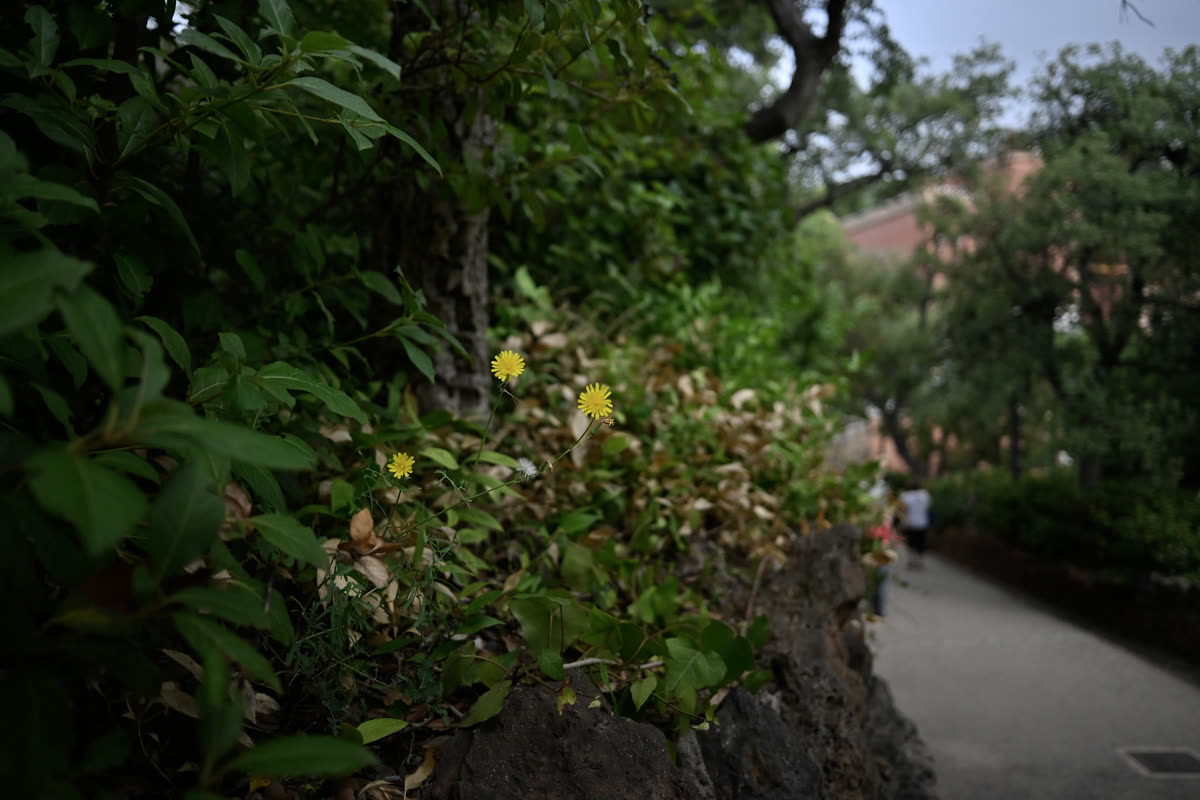
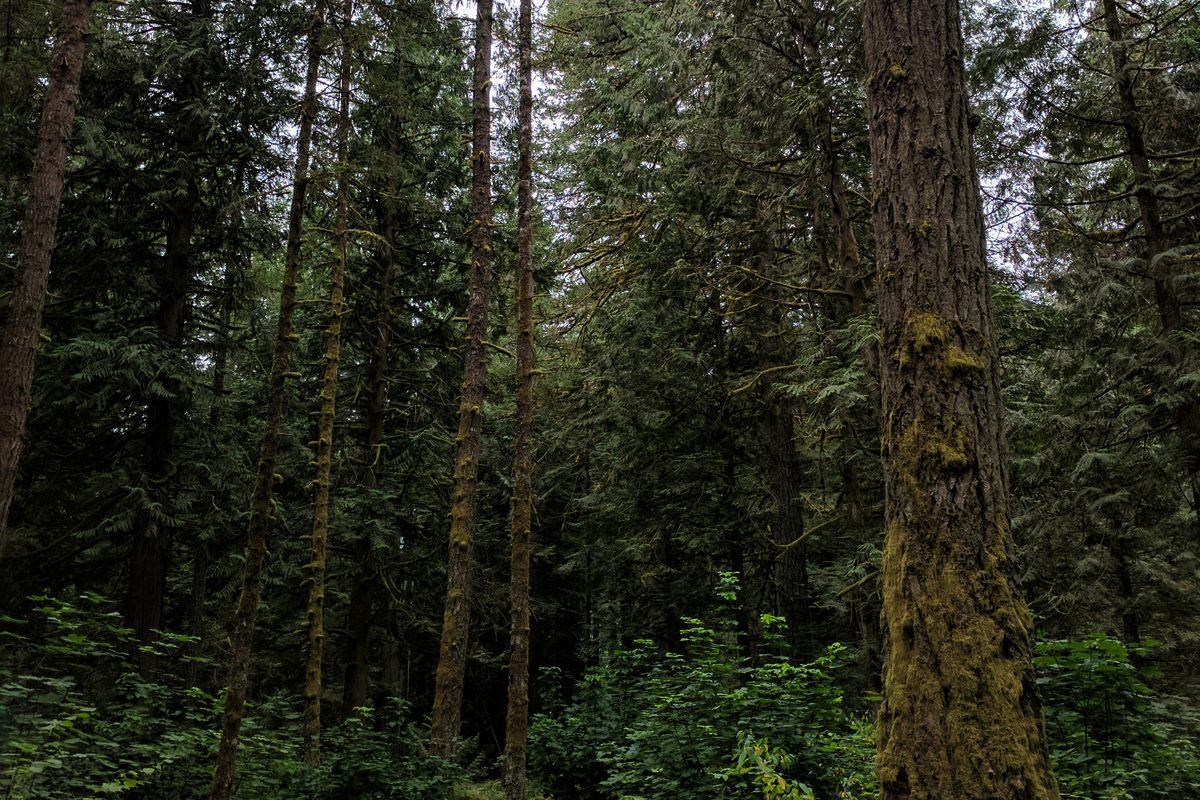
Meditation beds, Andrew's photos, and four decisions closed
- Every meditation now has a bed (sceneId in meditations/index.json, no
  re-render): warm-room/fireplace, forest-01/forest-evening,
  lake-at-dusk/waterfall-valley, under-a-slow-sky/forest-night, the other
  six over rain-on-window.
- Photos from Andrew's own set: night-train gets its first (his
  AI-generated lounge car, rainy window), and monsoon (nearly white) and
  forest-day (too daylight) are replaced with his photographs. All are
  cropped 3:2, graded to the catalogue's night luminance, and credited in
  NOTICES.md. monsoon's top-right is darkened so the card's arrow reads.
- Closed: singing bowls ditched (0G), no local voice (0E), photos (0F),
  meditation beds (1). iOS Safari is dropped from the v1.0 device pass.

Scene photos are stale-while-revalidate, so no CACHE_VERSION bump.

Validated: a phone-width headless screenshot of Tonight shows every card
on a photo with its title, copy and arrow legible. tsc/eslint clean,
vitest 294/294, build clean.

diff --git a/src/lib/sceneBackground.ts b/src/lib/sceneBackground.ts
@@ -16,8 +16,8 @@ const SCENE_PHOTOS: Record<string, string> = {
   'monsoon':        resolvePublicUrl('/scenes/photos/monsoon.jpg'),
   'ocean-night':    resolvePublicUrl('/scenes/photos/ocean-night.jpg'),
   'fireplace':      resolvePublicUrl('/scenes/photos/fireplace.jpg'),
+  'night-train':    resolvePublicUrl('/scenes/photos/night-train.jpg'),
   'singing-bowl':   resolvePublicUrl('/scenes/photos/singing-bowl.jpg'),
-  // night-train has no photo yet — see SCENE_GRADIENTS below.
 };
 
 const SCENE_GRADIENTS: Record<string, [string, string]> = {
@@ -29,10 +29,6 @@ const SCENE_GRADIENTS: Record<string, [string, string]> = {
   'monsoon':        ['#1A2228', '#0B0D10'],
   'ocean-night':    ['#10202A', '#0B0D10'],
   'fireplace':      ['#2A1810', '#0B0D10'],
-  // night-train is the one scene running on its gradient rather than a
-  // photo: choosing the photograph is Andrew's call, and the roadmap already
-  // has an open item about off-brief imagery. A warm interior over a cold
-  // window is the look to match when one is picked.
   'night-train':    ['#231C22', '#0B0D10'],
   'singing-bowl':   ['#1E1A10', '#0B0D10'],
 };

diff --git a/.handoff/PENDING-DECISIONS.md b/.handoff/PENDING-DECISIONS.md
@@ -11,12 +11,9 @@ so this file is only live items.
 ## At a glance
 
 **Blocked on Andrew**
-- **1** — every meditation plays with no bed. Pick pairings, or wait for 0G.
-- **0G** — a source for the singing-bowl replacement bed. Pick a route.
-- **0E** — the narration voice. 31 audition files are on your phone. This one
-  gates the most: 7 written meditations cannot be rendered until it is picked.
-- **0F** — a photograph for `night-train`, plus the two still-off-brief ones.
-- **2** — the device pass, which is the gate on tagging v1.0.
+- **2** — the device pass, which is the gate on tagging v1.0: PWA install, an
+  overnight on v18, and the mark button on a locked phone. **iOS Safari is
+  dropped for now** (Andrew, 2026-09-30).
 
 **Buildable without you**
 - **0B** — 8 variants still step >3 dB at the wrap, the same 8 the 2026-09-02
@@ -43,7 +40,13 @@ rain-on-glass recording chosen by Andrew's ear (DECISIONS.md, "glass-1
 retired"). glass-5, the Guangzhou splatter spliced clean by ear, joined it the
 same day as an extra variant (DECISIONS.md, "glass-5").
 
-## 0G. OPEN 2026-09-16 — the bowls are OUT of the catalogue, and need sourcing
+## 0G. CLOSED 2026-09-30 — singing bowls ditched
+
+Andrew: "we ditch singing bowls." No replacement bed will be sourced. The ten
+meditations play over existing scenes (item 1). The held-back scene's files
+stay in `scenes/_held-back/` as history and can go in a cleanup.
+
+### (was: the bowls are OUT of the catalogue, and need sourcing)
 
 Andrew: "I thought we still need to resource the bowls? The old ones were
 hella disharmonious." Then: "We're replacing but need to source them. No
@@ -91,7 +94,12 @@ done well. Not reverted: the deploy had already published CACHE_VERSION v14,
 so a revert costs a second full re-download and returns nothing. The general
 finding in it is still worth having — see "Watch out for" in the hand-off.
 
-## 0E. OPEN 2026-09-14 — the audition is rendered and staged, waiting on ears
+## 0E. CLOSED 2026-09-30 — no local voice needed
+
+Andrew: "No local voice needed." The library stays on ElevenLabs `stone`.
+The audition record stays in `notes/engine-audition-2026-09-14.md`.
+
+### (was: the audition is rendered and staged, waiting on ears)
 
 **Narrowed 2026-09-19: the library no longer waits on this.** Andrew chose
 `stone` and the whole library is rendered in it (item 1). What is still open
@@ -144,7 +152,18 @@ refuting the craft sources); ceilings + a perceptual taper ship on every
 volume slider; the train scene's source is FTUS TRAINS_02's Thailand
 first-class cabin (602 s, "Railway Clicks").
 
-## 0F. OPEN 2026-09-15 — the train scene ships without a photograph
+## 0F. DONE 2026-09-30 — photos for night-train, monsoon and forest-day
+
+From Andrew's own set (Taildropped to `~/Taildrop/`; working copies in
+`~/incoming/photos-2026-09-30/`): night-train is his AI-generated lounge car
+(lamp against a rainy window); monsoon is his storm shelf over a skyline
+(window frame cropped, top-right darkened so the card's arrow reads);
+forest-day is his tall-forest path. All are graded to the catalogue's night
+luminance (YAVG ~35-42), and NOTICES.md records his rights. Unused but
+strong, kept in reserve: the dark beach with a lighthouse glint
+(IMG_1568), night leaves (L1010043), and the second AI train (corridor).
+
+### (was: the train scene ships without a photograph)
 
 `night-train` is cut, voiced, conformance-green and in the catalogue. It is
 the only scene with no photo, so it draws its gradient instead — supported,
@@ -199,7 +218,14 @@ and that file now opens with a status block saying which is which.
   `package.json` still reads `0.1.0` and there are no tags yet. **This is the
   gate on v1.0.**
 
-## 1. DONE 2026-09-19 — the library is rendered, on `stone`
+## 1. DONE 2026-09-30 — every meditation has a bed
+
+Andrew took the suggested pairings: warm-room over fireplace, forest-01 over
+forest-evening, lake-at-dusk over waterfall-valley, under-a-slow-sky over
+forest-night, the other six over rain-on-window. These are `sceneId`s in
+`public/meditations/index.json`; nothing was re-rendered.
+
+### (2026-09-19: the library is rendered, on `stone`)
 
 Andrew picked `stone` for the whole library rather than waiting for the
 engine audition to close. Ten meditations (3 re-rendered, 7 new) and all four

diff --git a/public/scenes/photos/NOTICES.md b/public/scenes/photos/NOTICES.md
@@ -7,14 +7,18 @@ license does not strictly require it.
 | Scene            | File                  | Photographer        | Source / License                          |
 |------------------|-----------------------|---------------------|-------------------------------------------|
 | forest-evening   | forest-evening.jpg    | Jonathan Klok       | Unsplash — Unsplash License (free use)    |
-| monsoon          | monsoon.jpg           | Daniel Lerman       | Unsplash — Unsplash License (free use)    |
 | ocean-night      | ocean-night.jpg       | Joakim Honkasalo    | Unsplash — Unsplash License (free use)    |
 | fireplace        | fireplace.jpg         | Elisabeth Arnold    | Unsplash — Unsplash License (free use)    |
 | singing-bowl     | singing-bowl.jpg      | Petr Sidorov        | Unsplash — Unsplash License (free use) — photo-1627764627459-ba29d6051fe0 |
 | waterfall-valley | waterfall-valley.jpg  | Andrew Rausch       | Own photograph (2026-09-02); tone-curved down to the catalogue's night luminance (YAVG ~40) |
+| forest-day       | forest-day.jpg        | Andrew Rausch       | Own photograph (IMG_20170812_085115, 2026-09-30); cropped 3:2 from portrait, tone-curved to YAVG ~42 |
+| monsoon          | monsoon.jpg           | Andrew Rausch       | Own photograph (IMG_20180515_170029, 2026-09-30); window frame cropped off, tone-curved to YAVG ~42 |
+| night-train      | night-train.jpg       | Andrew Rausch       | AI-generated image made by and owned by Andrew Rausch (2026-09-30); resized only (YAVG 42) |
 
-Earlier photos (forest-day, forest-night, rain-on-window) predate this file;
-sources to be backfilled here when known. The original fireplace photo was a
+Earlier photos (forest-night, rain-on-window) predate this file; sources to
+be backfilled here when known. The earlier forest-day photo (too daylight)
+and Daniel Lerman's Unsplash monsoon photo (nearly white) were replaced on
+2026-09-30 by Andrew's own; full rights to every Andrew Rausch entry are his. The original fireplace photo was a
 user-provided shot, replaced 2026-05-30 with the Unsplash photo above.
 
 All files were downloaded from the Unsplash CDN at 1200×800 (`?w=1200&h=800&fit=crop&q=80&fm=jpg`) on 2026-05-30.

diff --git a/DECISIONS.md b/DECISIONS.md
@@ -1289,3 +1289,24 @@ What the listening rounds taught, for the next splice job:
   --alt-boundary` (`dynaudnorm ...:b=1`) holds the edge gain. It is
   opt-in so the masters already cut stay reproducible; use it for any new
   source. glass-4's source was loud enough that the ramp did not matter.
+
+## Meditation beds, no singing bowls, no local voice, iOS later (2026-09-30)
+
+Andrew settled four open items in one message:
+
+- **Meditations get existing scenes as beds:** warm-room over fireplace,
+  forest-01 over forest-evening, lake-at-dusk over waterfall-valley,
+  under-a-slow-sky over forest-night, and the other six over
+  rain-on-window. A meditation's bed is only an underbed (stop-with-content),
+  so it has to sit under a voice, not survive the night.
+- **Singing bowls are ditched.** The 2026-07-01 plan for a sourced warm
+  pad/drone is dropped, and the FTUS map has no bowls or musical drones
+  anyway. The held-back scene stays on disk as history.
+- **No local TTS engine.** The library stays on ElevenLabs `stone`.
+- **iOS Safari testing is dropped for now.** The v1.0 device pass is PWA
+  install, an overnight, and the mark button on a locked phone.
+
+Photos: night-train finally has one (Andrew's own AI-generated image, his
+rights), and monsoon and forest-day are replaced with his photographs. All
+are graded to the catalogue's night luminance. Scene photos are
+stale-while-revalidate in the service worker, so no cache bump is needed.
